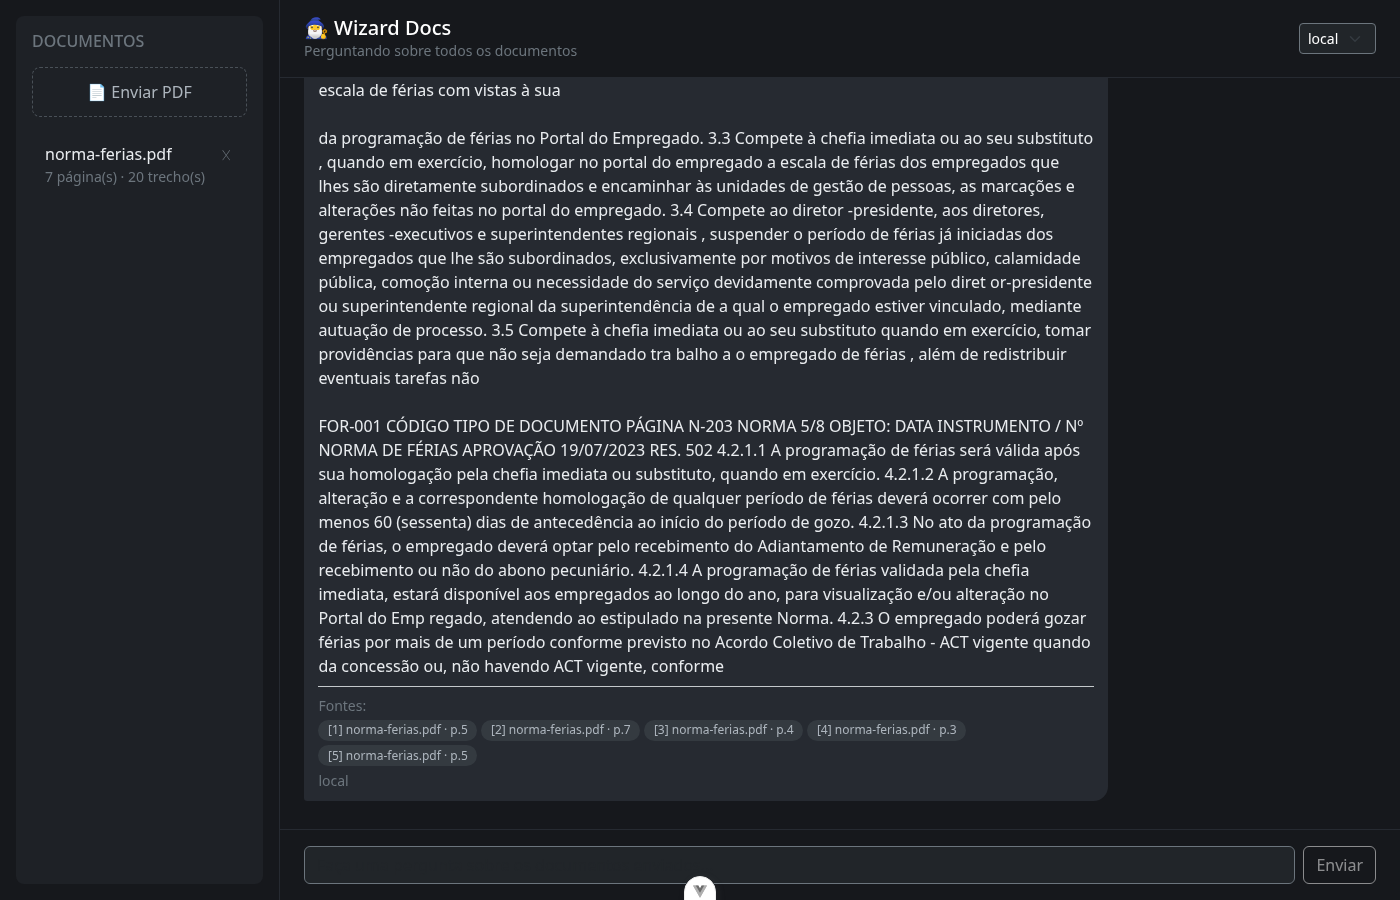
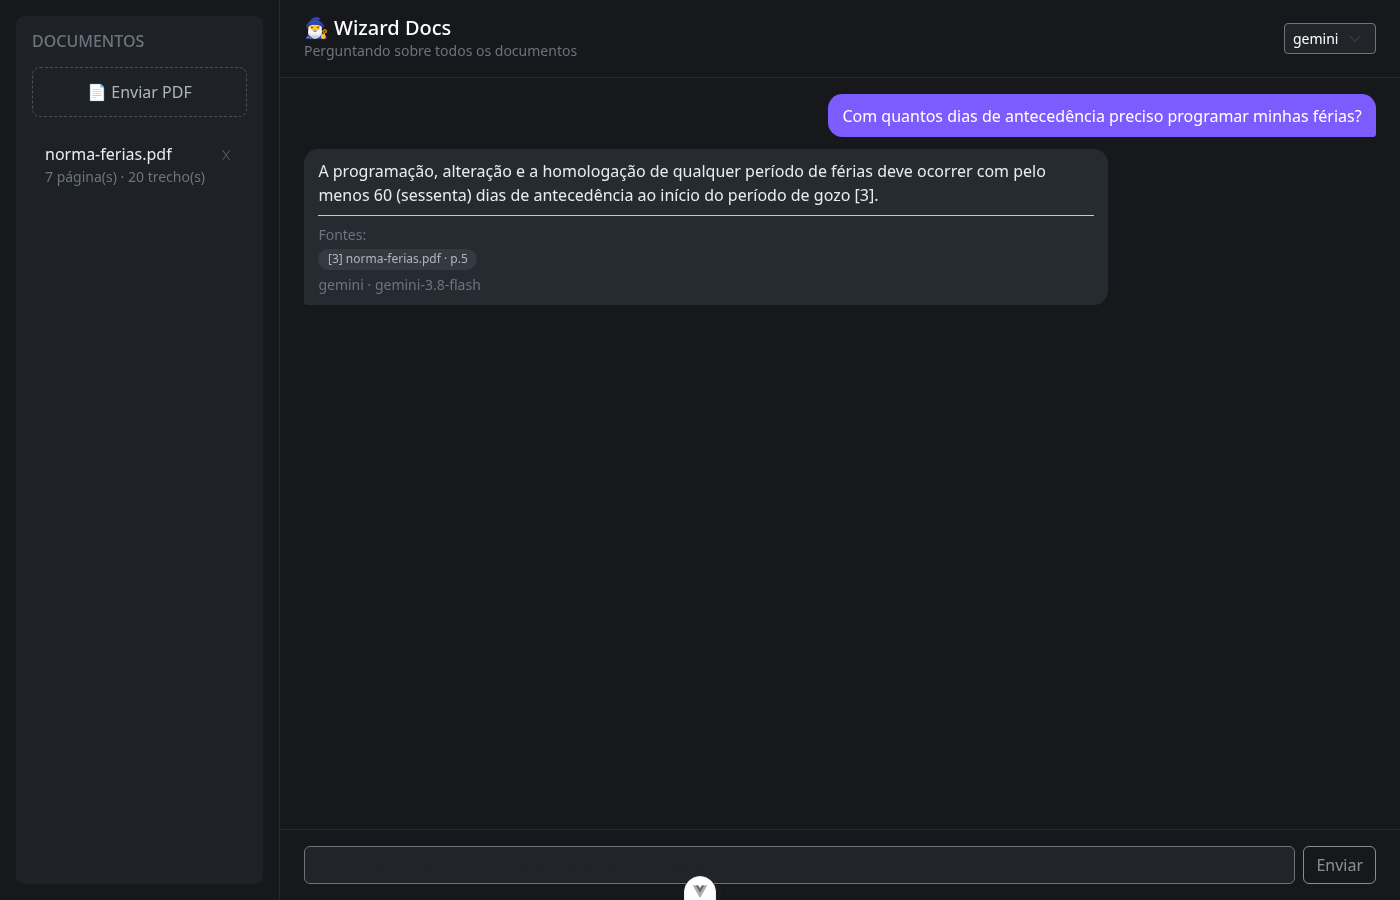
docs: melhorar prints e trocar ícone do README
Os prints anteriores usavam o modo local (trechos crus, texto longo e
ilegível) e ficavam cortados na captura. Agora mostram uma resposta
real do Gemini, curta e com citação por página, capturando a
conversa inteira sem corte.

O ícone do topo era um print de tela esticado em 72x72; agora é um
ícone quadrado de verdade (docs/screenshots/icon.png).

diff --git a/README.md b/README.md
@@ -1,4 +1,4 @@
-<img src="docs/screenshots/welcome.png" alt="WizardDocs" width="72" height="72">
+<img src="docs/screenshots/icon.png" alt="WizardDocs" width="72" height="72">
 
 # WizardDocs
 
